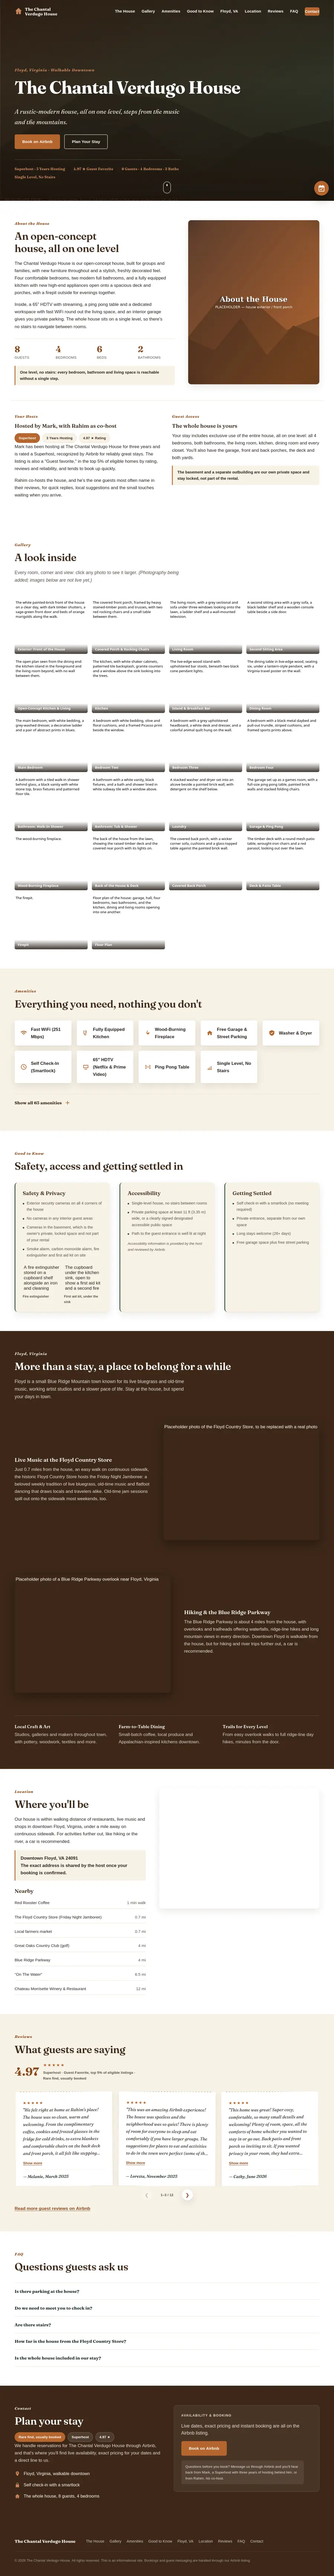
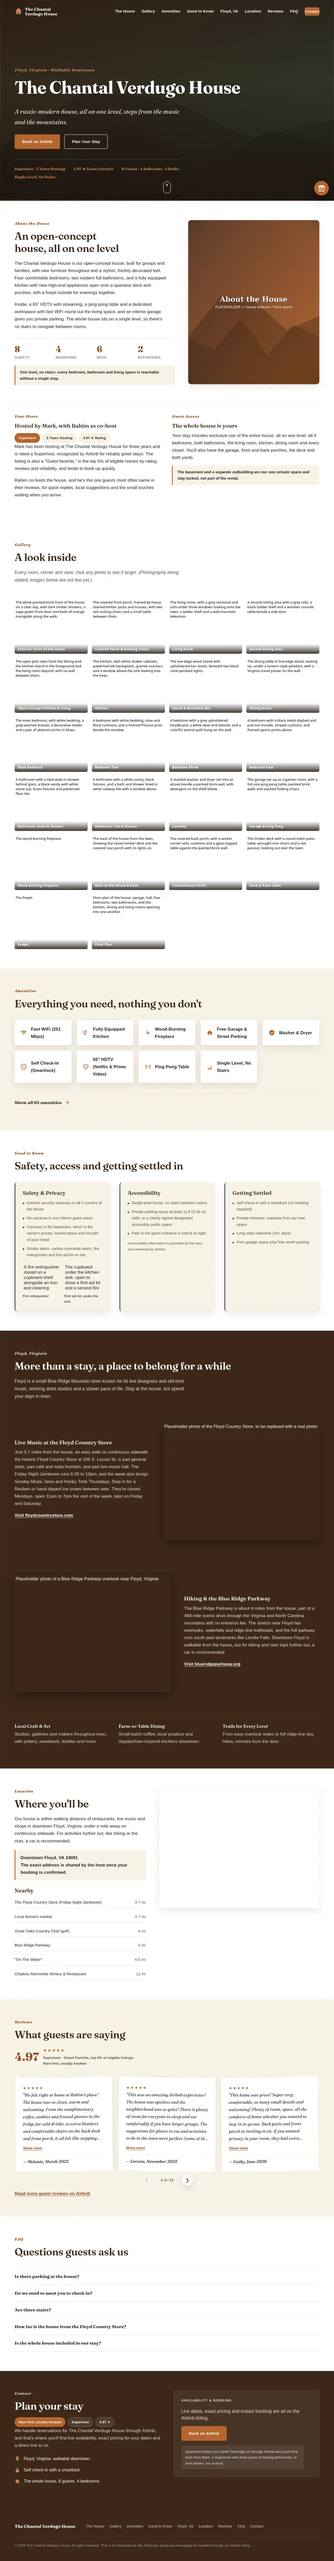
copy(chantal): real Floyd Country Store / Blue Ridge Parkway info, drop Red Rooster mention
Folds in real hours, address and event schedule from floydcountrystore.com, and the
469-mile/no-entrance-fee framing plus a named landmark from blueridgeparkway.org, each
with an outbound link to the source rather than a hosted image or logo — both sites
carry an explicit copyright notice, so nothing of theirs is vendored here.

Drops the "Red Rooster Coffee" row from the Nearby list (site copy). The two mentions
inside guest reviews (Melanie's and John's) are left untouched — those are verbatim
quotes, and this page has twice gone out of its way to keep guest quotes unedited.

Adds .floyd__link a: the default link color fails contrast (2.03:1) on this section's
dark background, so it needed the same white-at-rest/copper-light-on-hover treatment
already used by .contact__list a.

Regenerated the gallery preview and synced its height attribute in the root index.html.

diff --git a/projects/chantal_verdugo_house/index.html b/projects/chantal_verdugo_house/index.html
@@ -894,10 +894,17 @@
               <h3>Live Music at the Floyd Country Store</h3>
               <p>
                 Just 0.7 miles from the house, an easy walk on continuous sidewalk, the
-                historic Floyd Country Store hosts the Friday Night Jamboree: a beloved
-                weekly tradition of live bluegrass, old-time music and flatfoot dancing
-                that draws locals and travelers alike. Old-time jam sessions spill out onto
-                the sidewalk most weekends, too.
+                historic Floyd Country Store at 206 S. Locust St. is part general store,
+                part café and soda fountain, and part live-music hall. The Friday Night
+                Jamboree runs 6:30 to 10pm, and the week also brings Sunday Music Jams
+                and Honky Tonk Thursdays. Stop in for a Reuben or hand-dipped ice cream
+                between sets. They're closed Mondays, open 11am to 7pm the rest of the
+                week, later on Friday and Saturday.
+              </p>
+              <p class="floyd__link">
+                <a href="https://www.floydcountrystore.com/" target="_blank" rel="noopener">
+                  Visit floydcountrystore.com <span class="sr-only">(opens in a new tab)</span>
+                </a>
               </p>
             </div>
             <figure class="floyd__media">
@@ -915,10 +922,17 @@
             <div class="floyd__text">
               <h3>Hiking &amp; the Blue Ridge Parkway</h3>
               <p>
-                The Blue Ridge Parkway is about 4 miles from the house, with overlooks and
-                trailheads offering waterfalls, ridge-line hikes and long mountain views in
-                every direction. Downtown Floyd is walkable from the house, but for hiking
-                and river trips further out, a car is recommended.
+                The Blue Ridge Parkway is about 4 miles from the house, part of a
+                469-mile scenic drive through the Virginia and North Carolina mountains
+                with no entrance fee. The stretch near Floyd has overlooks, waterfalls
+                and ridge-line trailheads, and the full parkway runs south past
+                landmarks like Linville Falls. Downtown Floyd is walkable from the
+                house, but for hiking and river trips further out, a car is recommended.
+              </p>
+              <p class="floyd__link">
+                <a href="https://www.blueridgeparkway.org/" target="_blank" rel="noopener">
+                  Visit blueridgeparkway.org <span class="sr-only">(opens in a new tab)</span>
+                </a>
               </p>
             </div>
             <figure class="floyd__media">
@@ -970,7 +984,6 @@
 
             <h3 class="location__nearby-title">Nearby</h3>
             <ul class="location__nearby">
-              <li><span>Red Rooster Coffee</span><span>1 min walk</span></li>
               <li><span>The Floyd Country Store (Friday Night Jamboree)</span><span>0.7 mi</span></li>
               <li><span>Local farmers market</span><span>0.7 mi</span></li>
               <li><span>Great Oaks Country Club (golf)</span><span>4 mi</span></li>

diff --git a/projects/chantal_verdugo_house/css/styles.css b/projects/chantal_verdugo_house/css/styles.css
@@ -1018,6 +1018,21 @@ address {
   min-width: 280px;
 }
 
+/* The default `a` color (--copper-deep) fails contrast on this section's dark
+   background — same fix as .contact__list a: white at rest, copper-light on
+   hover/focus. */
+.floyd__link a {
+  color: var(--white);
+  font-weight: 600;
+  text-decoration: underline;
+  text-underline-offset: 0.2em;
+}
+
+.floyd__link a:hover,
+.floyd__link a:focus-visible {
+  color: var(--copper-light);
+}
+
 .floyd__media {
   flex: 1 1 420px;
   min-width: 280px;

diff --git a/index.html b/index.html
@@ -208,7 +208,7 @@
                     alt=""
                     loading="lazy"
                     width="900"
-                    height="6928" />
+                    height="6889" />
                 </picture>
               </span>
             </a>
